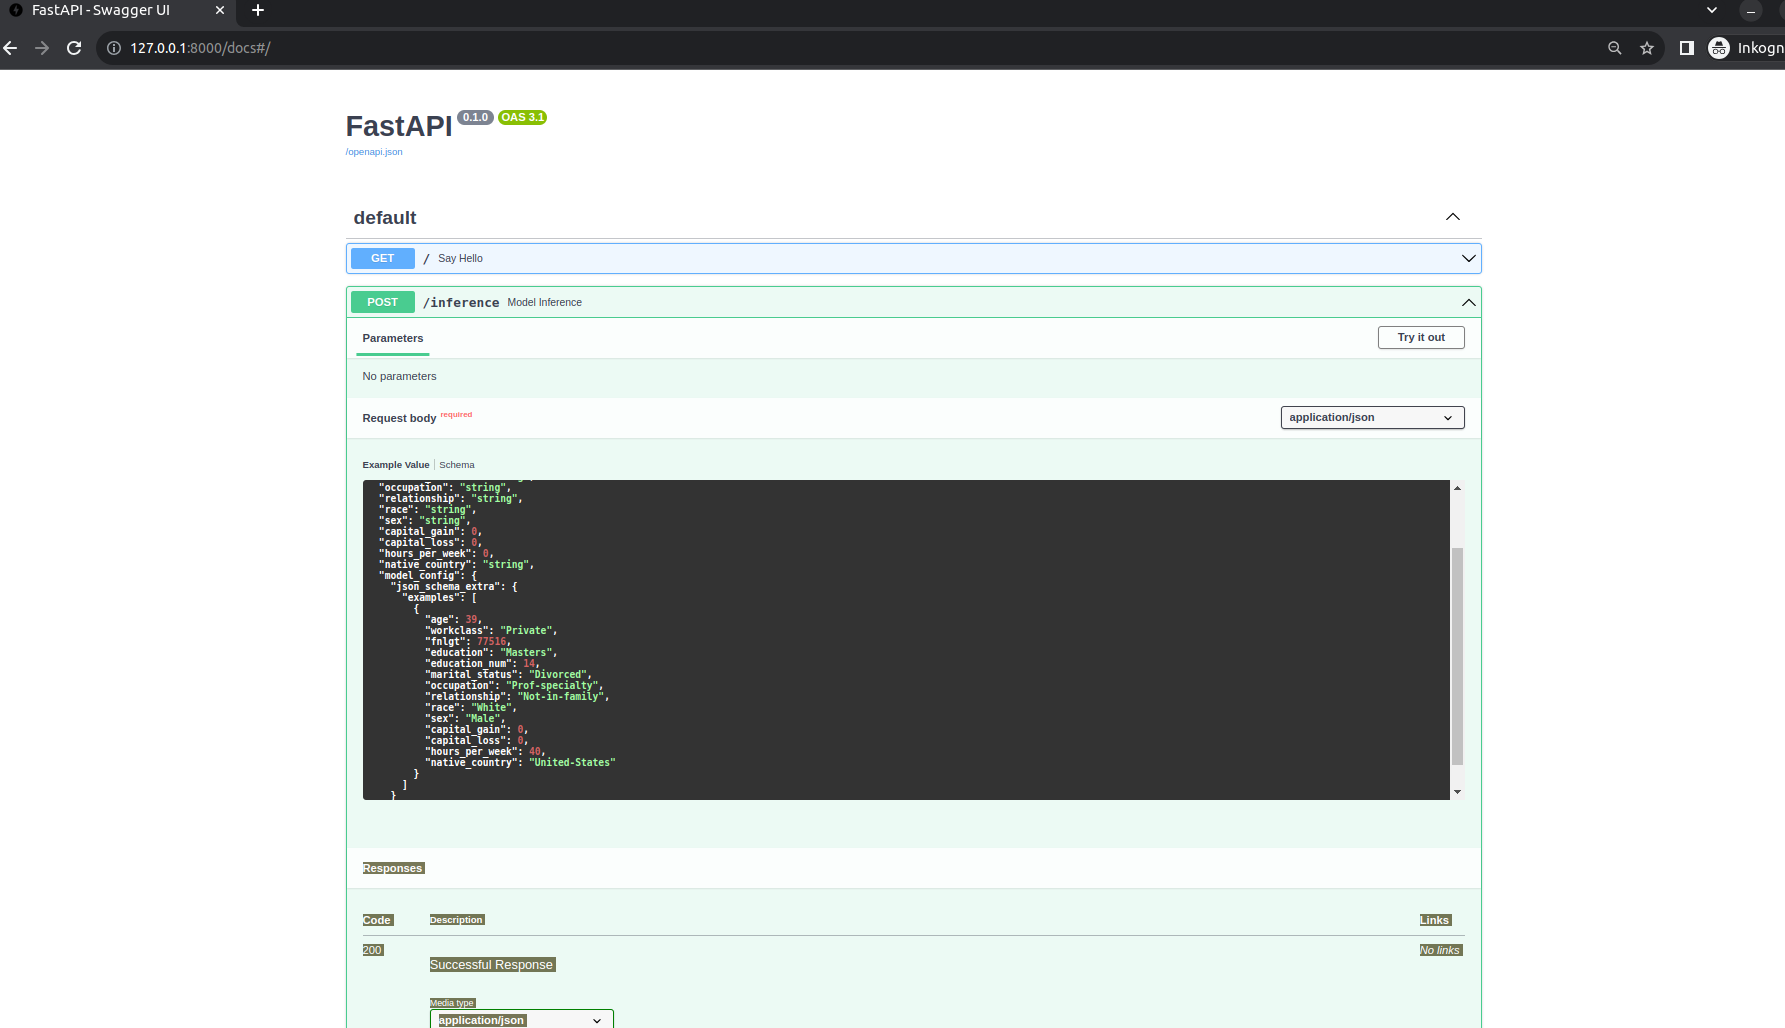
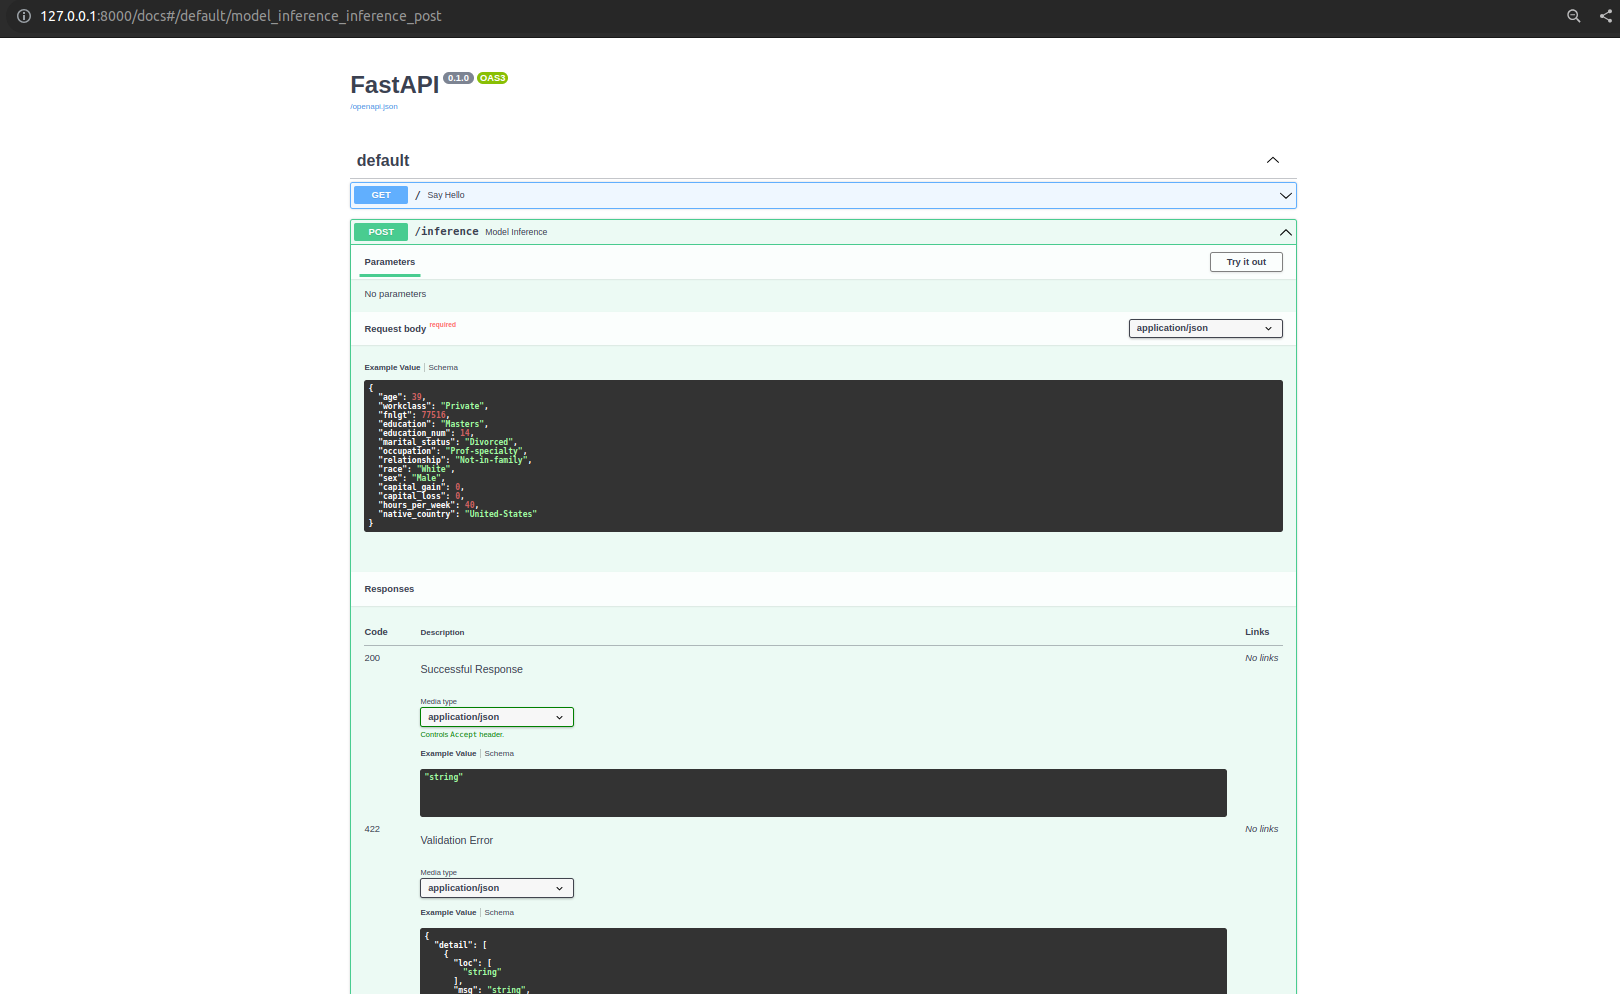
changes for review

diff --git a/main.py b/main.py
@@ -42,6 +42,26 @@ class ModelInput(BaseModel):
     hours_per_week: int
     native_country: str
 
+    class Config:
+        schema_extra = {
+            "example": {
+                "age": 39,
+                "workclass": "Private",
+                "fnlgt": 77516,
+                "education": "Masters",
+                "education_num": 14,
+                "marital_status": "Divorced",
+                "occupation": "Prof-specialty",
+                "relationship": "Not-in-family",
+                "race": "White",
+                "sex": "Male",
+                "capital_gain": 0,
+                "capital_loss": 0,
+                "hours_per_week": 40,
+                "native_country": "United-States"
+            }
+        }
+
 
 app = FastAPI()
 

diff --git a/README.md b/README.md
@@ -1,75 +1,39 @@
-Working in a command line environment is recommended for ease of use with git and dvc. If on Windows, WSL1 or 2 is recommended.
+# ML PROJECT CENSUS BUREAU
 
-# Environment Set up
-* Download and install conda if you don’t have it already.
-    * Use the supplied requirements file to create a new environment, or
-    * conda create -n [envname] "python=3.8" scikit-learn dvc pandas numpy pytest jupyter jupyterlab fastapi uvicorn -c conda-forge
-    * Install git either through conda (“conda install git”) or through your CLI, e.g. sudo apt-get git.
+In this project an ML model is trained to predict income of citizens.
+The data can be found in ./data/census.csv. The model is stored in ./model/model.sav.
 
-## Repositories
+More information about the model you find in the model card ./model_card.md.
 
-* Create a directory for the project and initialize Git and DVC.
-   * As you work on the code, continually commit changes. Trained models you want to keep must be committed to DVC.
-* Connect your local Git repository to GitHub.
+The project can be found on GitHub [https://github.com/rabanser89/ml_project_census_bureau](https://github.com/rabanser89/ml_project_census_bureau).
 
-## Set up S3
+## Requirements
 
-* In your CLI environment install the<a href="https://docs.aws.amazon.com/cli/latest/userguide/cli-chap-install.html" target="_blank"> AWS CLI tool</a>.
-* In the navigation bar in the Udacity classroom select **Open AWS Gateway** and then click **Open AWS Console**. You will not need the AWS Access Key ID or Secret Access Key provided here.
-* From the Services drop down select S3 and then click Create bucket.
-* Give your bucket a name, the rest of the options can remain at their default.
+Requirements can be found in requirements.txt and can be installed via
+```
+pip install -r requirements.txt
+```
 
-To use your new S3 bucket from the AWS CLI you will need to create an IAM user with the appropriate permissions. The full instructions can be found <a href="https://docs.aws.amazon.com/IAM/latest/UserGuide/id_users_create.html#id_users_create_console" target="_blank">here</a>, what follows is a paraphrasing:
+## API deployment
 
-* Sign in to the IAM console <a href="https://console.aws.amazon.com/iam/" target="_blank">here</a> or from the Services drop down on the upper navigation bar.
-* In the left navigation bar select **Users**, then choose **Add user**.
-* Give the user a name and select **Programmatic access**.
-* In the permissions selector, search for S3 and give it **AmazonS3FullAccess**
-* Tags are optional and can be skipped.
-* After reviewing your choices, click create user. 
-* Configure your AWS CLI to use the Access key ID and Secret Access key.
+An API has implementes GET and POST on the root domain. The GET gives a greeting and the POST does model inference. You can use 
+```
+uvicorn main: app --reload
+```
+to inspect API documentation. A screenshot for that you can be found in ./screenshot/example.png
 
-## GitHub Actions
+## Test
 
-* Setup GitHub Actions on your repository. You can use one of the pre-made GitHub Actions if at a minimum it runs pytest and flake8 on push and requires both to pass without error.
-   * Make sure you set up the GitHub Action to have the same version of Python as you used in development.
-* Add your <a href="https://github.com/marketplace/actions/configure-aws-credentials-action-for-github-actions" target="_blank">AWS credentials to the Action</a>.
-* Set up <a href="https://github.com/iterative/setup-dvc" target="_blank">DVC in the action</a> and specify a command to `dvc pull`.
+In this project test for the ML model and the api are implemented. To run the tests use
+```
+pytest
+```
 
-## Data
-
-* Download census.csv from the data folder in the starter repository.
-   * Information on the dataset can be found <a href="https://archive.ics.uci.edu/ml/datasets/census+income" target="_blank">here</a>.
-* Create a remote DVC remote pointing to your S3 bucket and commit the data.
-* This data is messy, try to open it in pandas and see what you get.
-* To clean it, use your favorite text editor to remove all spaces.
-* Commit this modified data to DVC under a new name (we often want to keep the raw data untouched but then can keep updating the cooked version).
-
-## Model
-
-* Using the starter code, write a machine learning model that trains on the clean data and saves the model. Complete any function that has been started.
-* Write unit tests for at least 3 functions in the model code.
-* Write a function that outputs the performance of the model on slices of the data.
-   * Suggestion: for simplicity, the function can just output the performance on slices of just the categorical features.
-* Write a model card using the provided template.
-
-## API Creation
-
-* Create a RESTful API using FastAPI this must implement:
-   * GET on the root giving a welcome message.
-   * POST that does model inference.
-   * Type hinting must be used.
-   * Use a Pydantic model to ingest the body from POST. This model should contain an example.
-    * Hint: the data has names with hyphens and Python does not allow those as variable names. Do not modify the column names in the csv and instead use the functionality of FastAPI/Pydantic/etc to deal with this.
-* Write 3 unit tests to test the API (one for the GET and two for POST, one that tests each prediction).
+## Continuous Integration
+For this project GitHub action are used. GitHub action run pytest and flake8 on push to main/master.
 
 ## API Deployment
 
-* Create a free Heroku account (for the next steps you can either use the web GUI or download the Heroku CLI).
-* Create a new app and have it deployed from your GitHub repository.
-   * Enable automatic deployments that only deploy if your continuous integration passes.
-   * Hint: think about how paths will differ in your local environment vs. on Heroku.
-   * Hint: development in Python is fast! But how fast you can iterate slows down if you rely on your CI/CD to fail before fixing an issue. I like to run flake8 locally before I commit changes.
-* Set up DVC on Heroku using the instructions contained in the starter directory.
-* Set up access to AWS on Heroku, if using the CLI: `heroku config:set AWS_ACCESS_KEY_ID=xxx AWS_SECRET_ACCESS_KEY=yyy`
-* Write a script that uses the requests module to do one POST on your live API.
+The app is deployed to the cloud application platform [www.render.com](https://www.render.com), where continuous delivery is enabled. See the screenshot continuous_deployment.png and continuous_deployment2.png
+
+The live api in action can be found in the screenshot live_get.png and post_get.png
